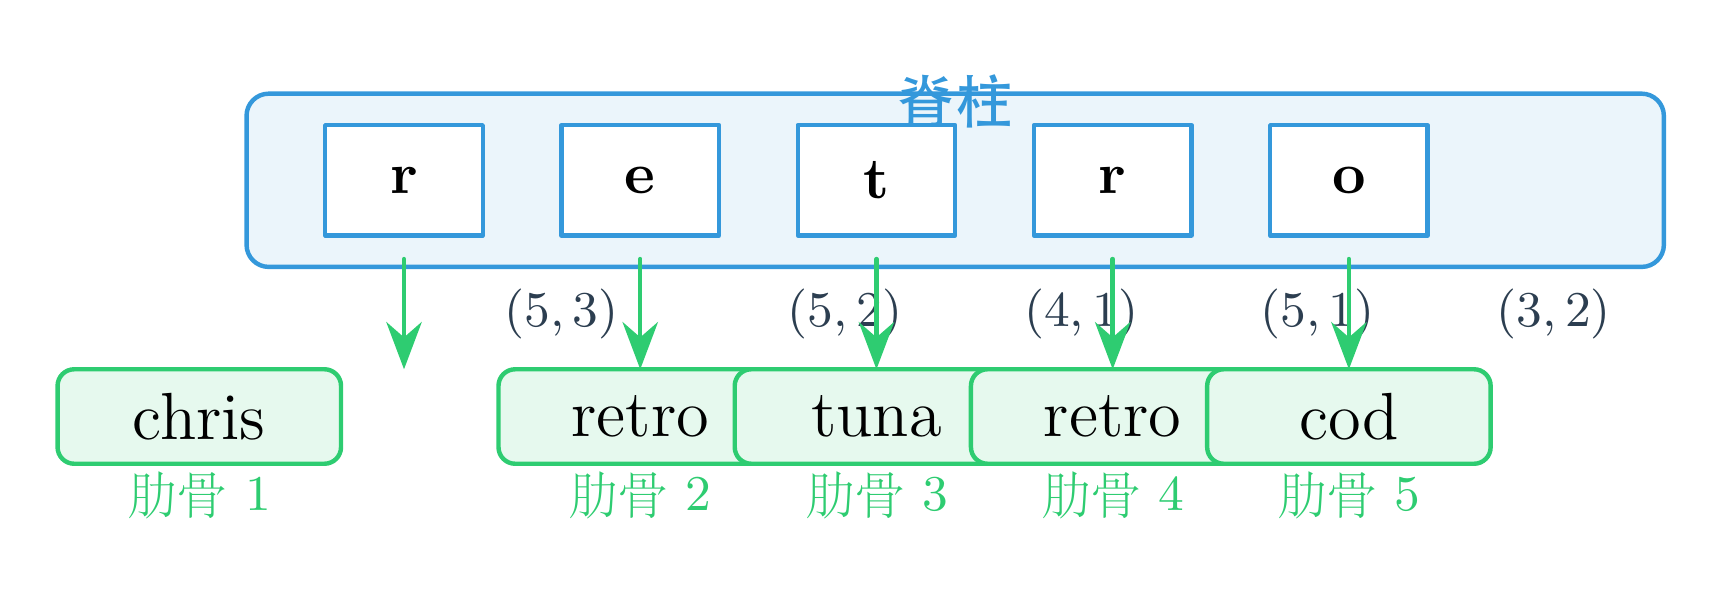
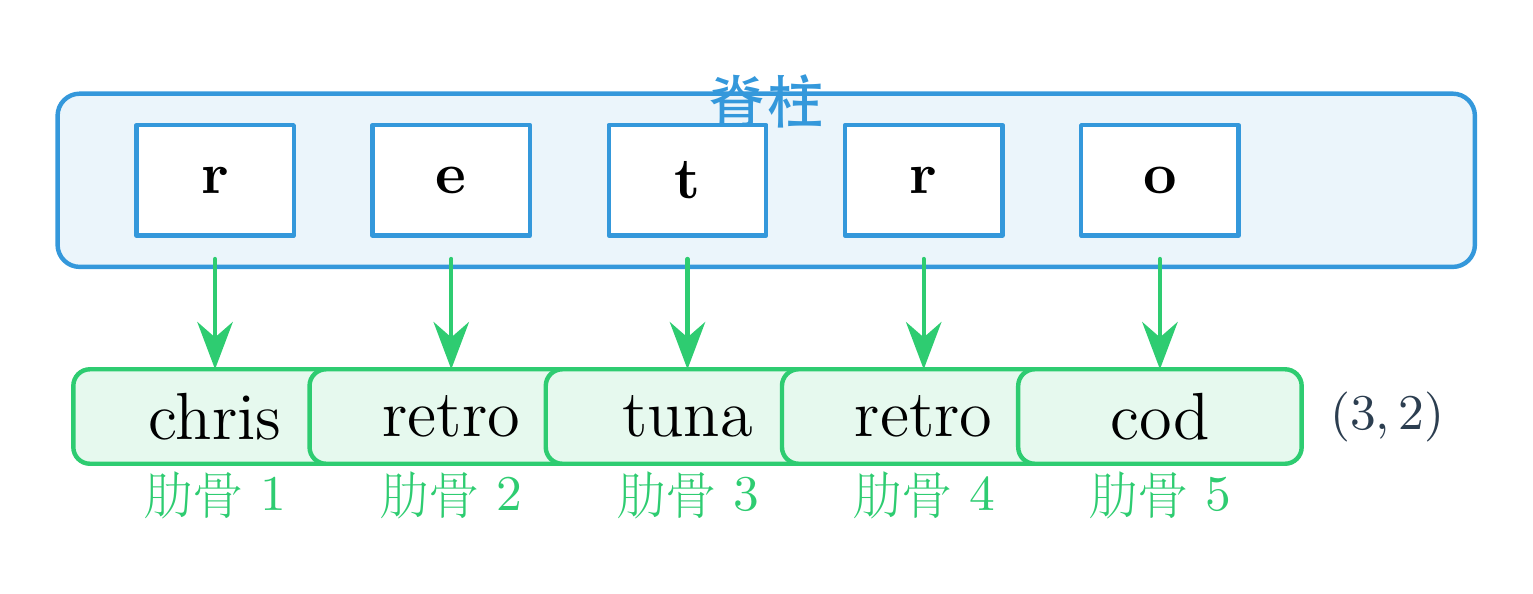
ABC452: fix c_structure diagram alignment — ribs and constraints aligned

diff --git a/ABC452/figures/c_structure.tex b/ABC452/figures/c_structure.tex
@@ -23,37 +23,37 @@
   % Rib 1: (5,3) → chris
   \draw[ribgreen, thick, -{Stealth[length=3mm]}] (2.5,3.7) -- (2.5,3.0);
   \node[fill=ribgreen!12, draw=ribgreen, thick, rounded corners=3pt,
-        minimum width=1.8cm, minimum height=0.6cm] at (1.2,2.7) {chris};
-  \node[ribgreen, font=\small] at (1.2,2.2) {肋骨1};
-  \node[darktext, font=\small] at (3.5,3.35) {$(5,3)$};
+        minimum width=1.8cm, minimum height=0.6cm] at (2.5,2.7) {chris};
+  \node[ribgreen, font=\small] at (2.5,2.2) {肋骨1};
+  \node[darktext, font=\small, anchor=west] at (3.45,2.7) {$(5,3)$};
 
   % Rib 2: (5,2) → retro
   \draw[ribgreen, thick, -{Stealth[length=3mm]}] (4.0,3.7) -- (4.0,3.0);
   \node[fill=ribgreen!12, draw=ribgreen, thick, rounded corners=3pt,
         minimum width=1.8cm, minimum height=0.6cm] at (4.0,2.7) {retro};
   \node[ribgreen, font=\small] at (4.0,2.2) {肋骨2};
-  \node[darktext, font=\small] at (5.3,3.35) {$(5,2)$};
+  \node[darktext, font=\small, anchor=west] at (4.95,2.7) {$(5,2)$};
 
   % Rib 3: (4,1) → tuna
   \draw[ribgreen, thick, -{Stealth[length=3mm]}] (5.5,3.7) -- (5.5,3.0);
   \node[fill=ribgreen!12, draw=ribgreen, thick, rounded corners=3pt,
         minimum width=1.8cm, minimum height=0.6cm] at (5.5,2.7) {tuna};
   \node[ribgreen, font=\small] at (5.5,2.2) {肋骨3};
-  \node[darktext, font=\small] at (6.8,3.35) {$(4,1)$};
+  \node[darktext, font=\small, anchor=west] at (6.45,2.7) {$(4,1)$};
 
   % Rib 4: (5,1) → retro
   \draw[ribgreen, thick, -{Stealth[length=3mm]}] (7.0,3.7) -- (7.0,3.0);
   \node[fill=ribgreen!12, draw=ribgreen, thick, rounded corners=3pt,
         minimum width=1.8cm, minimum height=0.6cm] at (7.0,2.7) {retro};
   \node[ribgreen, font=\small] at (7.0,2.2) {肋骨4};
-  \node[darktext, font=\small] at (8.3,3.35) {$(5,1)$};
+  \node[darktext, font=\small, anchor=west] at (7.95,2.7) {$(5,1)$};
 
   % Rib 5: (3,2) → cod
   \draw[ribgreen, thick, -{Stealth[length=3mm]}] (8.5,3.7) -- (8.5,3.0);
   \node[fill=ribgreen!12, draw=ribgreen, thick, rounded corners=3pt,
         minimum width=1.8cm, minimum height=0.6cm] at (8.5,2.7) {cod};
   \node[ribgreen, font=\small] at (8.5,2.2) {肋骨5};
-  \node[darktext, font=\small] at (9.8,3.35) {$(3,2)$};
+  \node[darktext, font=\small, anchor=west] at (9.45,2.7) {$(3,2)$};
 
 \end{tikzpicture}
 \end{document}
